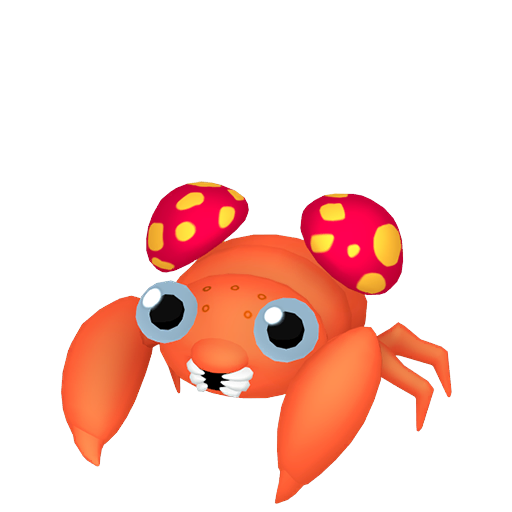
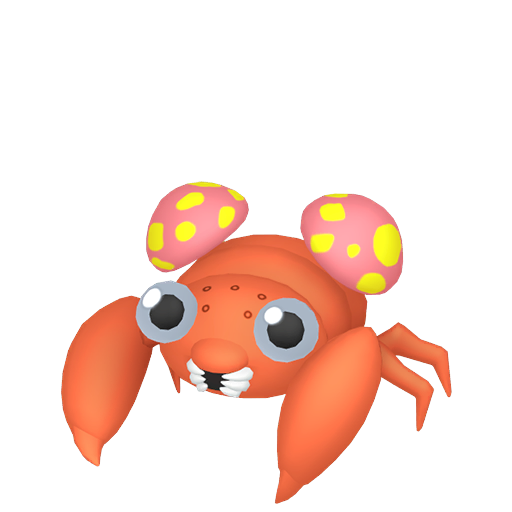
update paras

diff --git a/bin/lib/downloadMedia.ts b/bin/lib/downloadMedia.ts
@@ -1,17 +1,19 @@
 /* eslint-disable no-console */
 import fs from "fs";
-import fetch from "node-fetch";
 import path from "path";
 import { readJSON, saveJSON } from "../util.js";
 import { PokemonSimple } from "./scrapePokeapi.js";
 
 const SRC = "data/pokemon.json";
 const CRY_DEST = "public/cry";
-const IMG_DEST = "public/img/512";
+const IMG_DEST = "pokedex-img";
 const DATA_DEST = "public/data-pkmn.json";
 
 async function fetchBytes(url: string): Promise<Uint8Array> {
   const resp = await fetch(url);
+  if (!resp.ok) {
+    throw new Error(`${resp.status} ${resp.statusText}`);
+  }
   const buff = await resp.arrayBuffer();
   return new Uint8Array(buff);
 }

diff --git a/bin/lib/scrapePokeapi.ts b/bin/lib/scrapePokeapi.ts
@@ -1,5 +1,4 @@
 /* eslint-disable no-console */
-import fetch from "node-fetch";
 import path from "path";
 import { URL } from "url";
 import { saveJSON } from "../util.js";

diff --git a/CHANGELOG.md b/CHANGELOG.md
@@ -1,5 +1,9 @@
 # Changelog
 
+## 2024-10-05
+
+- Fixed Paras sprite (shiny and regular were swapped)
+
 ## 2024-08-12
 
 - Updated French translation
